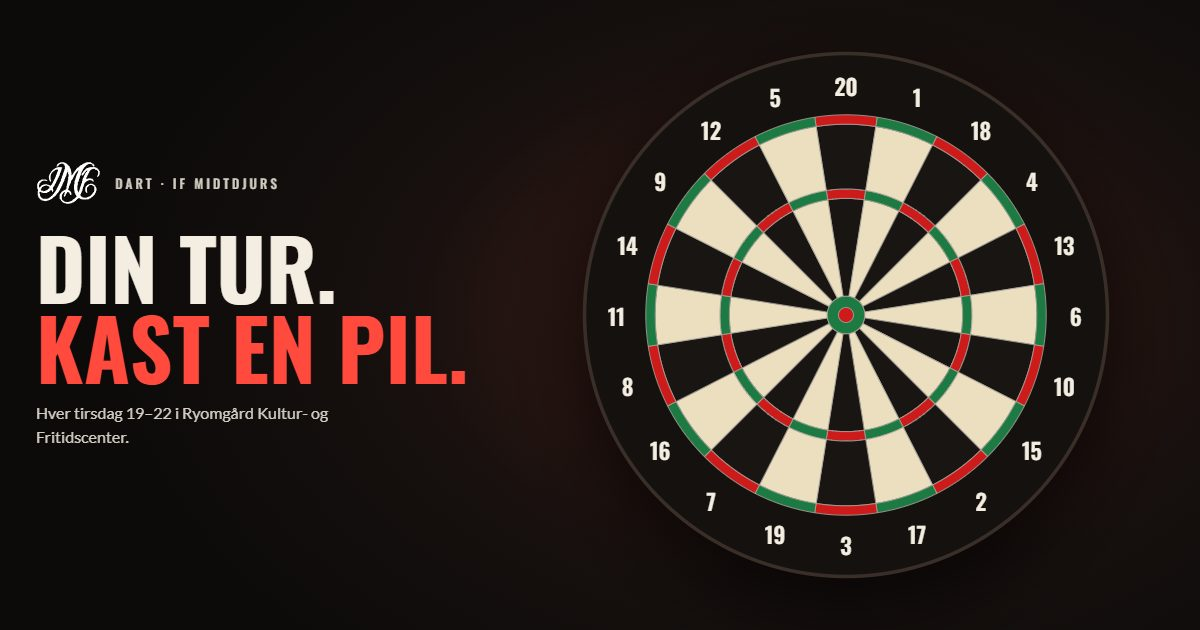
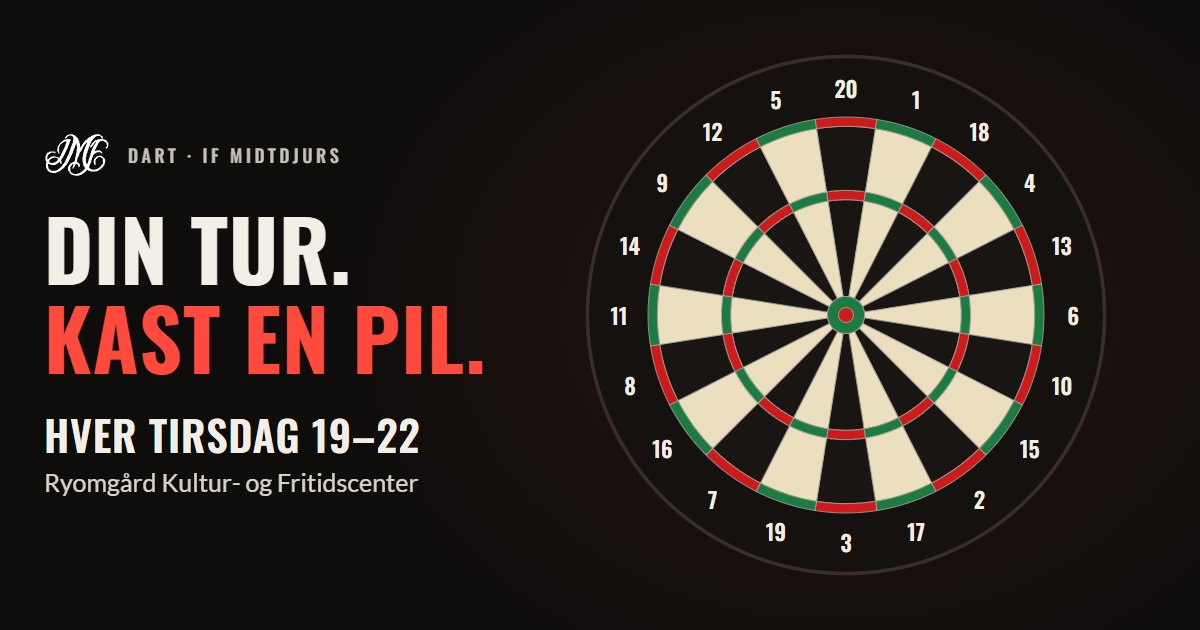
SEO

diff --git a/index.html b/index.html
@@ -4,21 +4,57 @@
 <meta charset="utf-8">
 <meta name="viewport" content="width=device-width,initial-scale=1">
 <title>Dart i IF Midtdjurs · Hver tirsdag 19–22 i Ryomgård</title>
-<meta name="description" content="Kom og kast med. Vi spiller dart hver tirsdag kl. 19–22 i Ryomgård Kultur- og Fritidscenter. Mød bare op.">
+<meta name="description" content="Kom og spil dart i IF Midtdjurs. Hver tirsdag kl. 19–22 i Ryomgård Kultur- og Fritidscenter. Ingen tilmelding, mød bare op. Alle kan være med.">
 <!-- Remove noindex when IF Midtdjurs has approved the site. -->
 <meta name="robots" content="noindex">
 <meta name="theme-color" content="#0c0b0a">
+<!-- Absolute URLs below use the preview address. Replace them all if the site moves to dart.ifmidtdjurs.dk. -->
+<link rel="canonical" href="https://nielspilgaard.github.io/ifm-dart/">
 <meta property="og:type" content="website">
 <meta property="og:locale" content="da_DK">
-<meta property="og:title" content="Din tur. Kast en pil.">
+<meta property="og:site_name" content="Dart i IF Midtdjurs">
+<meta property="og:title" content="Dart i IF Midtdjurs: Din tur. Kast en pil.">
 <meta property="og:description" content="Spil 501 i browseren, og prøv det så i virkeligheden: dart hver tirsdag 19–22 i Ryomgård.">
 <meta property="og:image" content="https://nielspilgaard.github.io/ifm-dart/assets/og.jpg">
+<meta property="og:image:type" content="image/jpeg">
 <meta property="og:image:width" content="1200">
 <meta property="og:image:height" content="630">
+<meta property="og:image:alt" content="Dartskive med teksten: Din tur. Kast en pil. Hver tirsdag 19–22 i Ryomgård Kultur- og Fritidscenter.">
 <meta property="og:url" content="https://nielspilgaard.github.io/ifm-dart/">
+<meta name="twitter:card" content="summary_large_image">
+<script type="application/ld+json">
+{
+  "@context": "https://schema.org",
+  "@type": "SportsClub",
+  "name": "Dart i IF Midtdjurs",
+  "description": "Dart hver tirsdag kl. 19–22 i Ryomgård Kultur- og Fritidscenter. Ingen tilmelding, mød bare op.",
+  "url": "https://nielspilgaard.github.io/ifm-dart/",
+  "image": "https://nielspilgaard.github.io/ifm-dart/assets/og.jpg",
+  "logo": "https://nielspilgaard.github.io/ifm-dart/assets/brand/icon-512.png",
+  "parentOrganization": {
+    "@type": "SportsOrganization",
+    "name": "IF Midtdjurs",
+    "url": "https://ifmidtdjurs.dk/"
+  },
+  "address": {
+    "@type": "PostalAddress",
+    "streetAddress": "Marienhoffvej 13C",
+    "postalCode": "8550",
+    "addressLocality": "Ryomgård",
+    "addressCountry": "DK"
+  },
+  "openingHoursSpecification": {
+    "@type": "OpeningHoursSpecification",
+    "dayOfWeek": "https://schema.org/Tuesday",
+    "opens": "19:00",
+    "closes": "22:00"
+  }
+}
+</script>
 <link rel="icon" href="assets/brand/favicon.svg" type="image/svg+xml">
 <link rel="icon" href="assets/brand/icon-32.png" sizes="32x32" type="image/png">
 <link rel="apple-touch-icon" href="assets/brand/icon-180.png">
+<link rel="manifest" href="site.webmanifest">
 <link rel="preload" href="assets/fonts/oswald.woff2" as="font" type="font/woff2" crossorigin>
 <style>
 @font-face{font-family:Oswald;src:url(assets/fonts/oswald.woff2) format("woff2");font-weight:400 700;font-display:swap}
